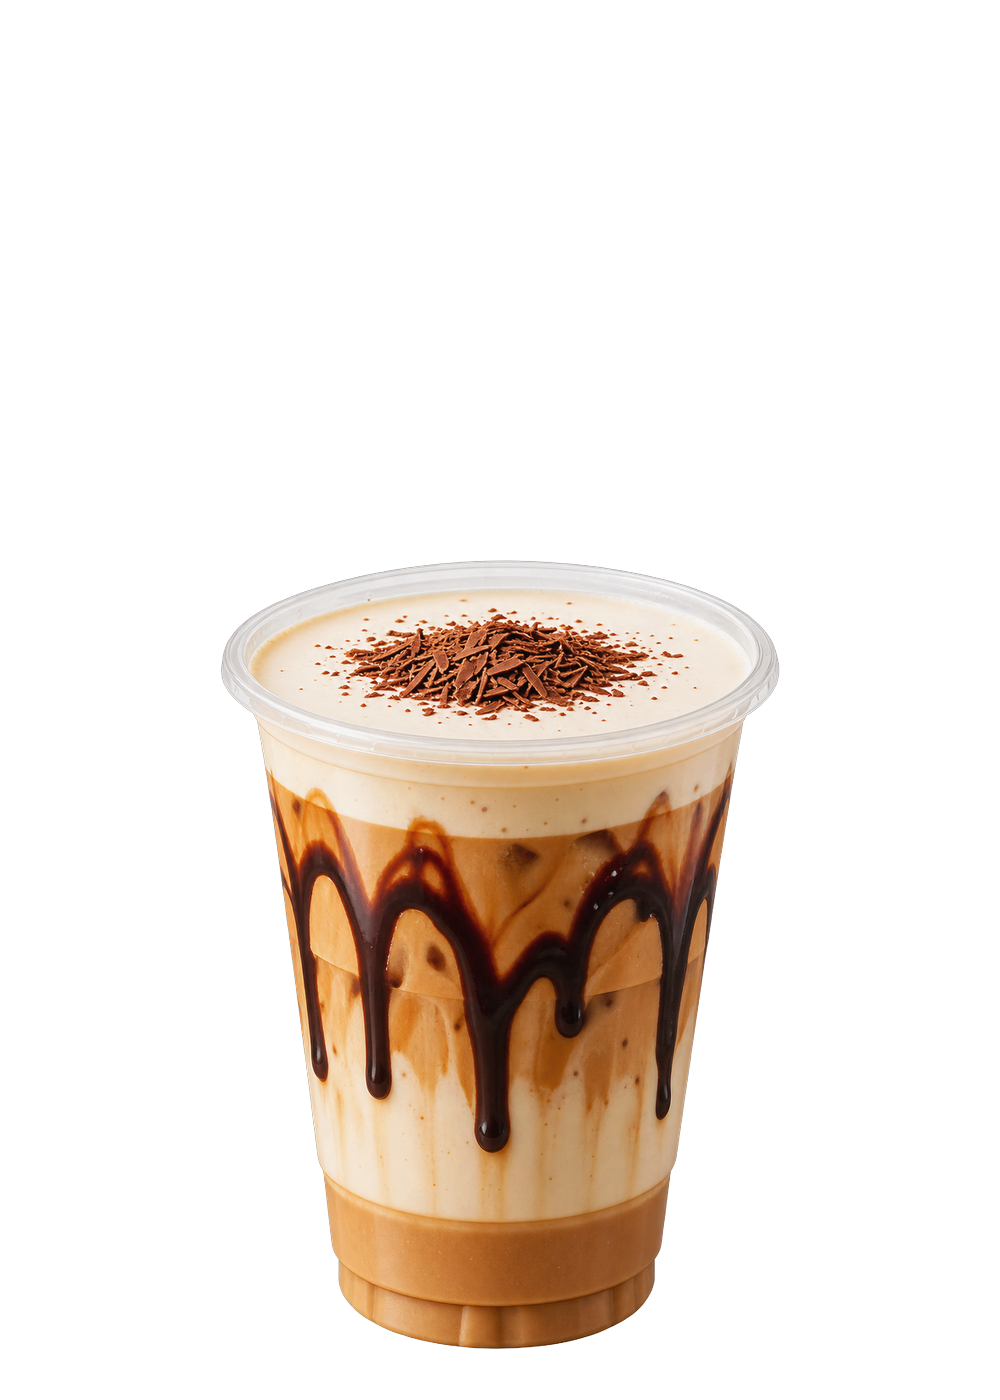
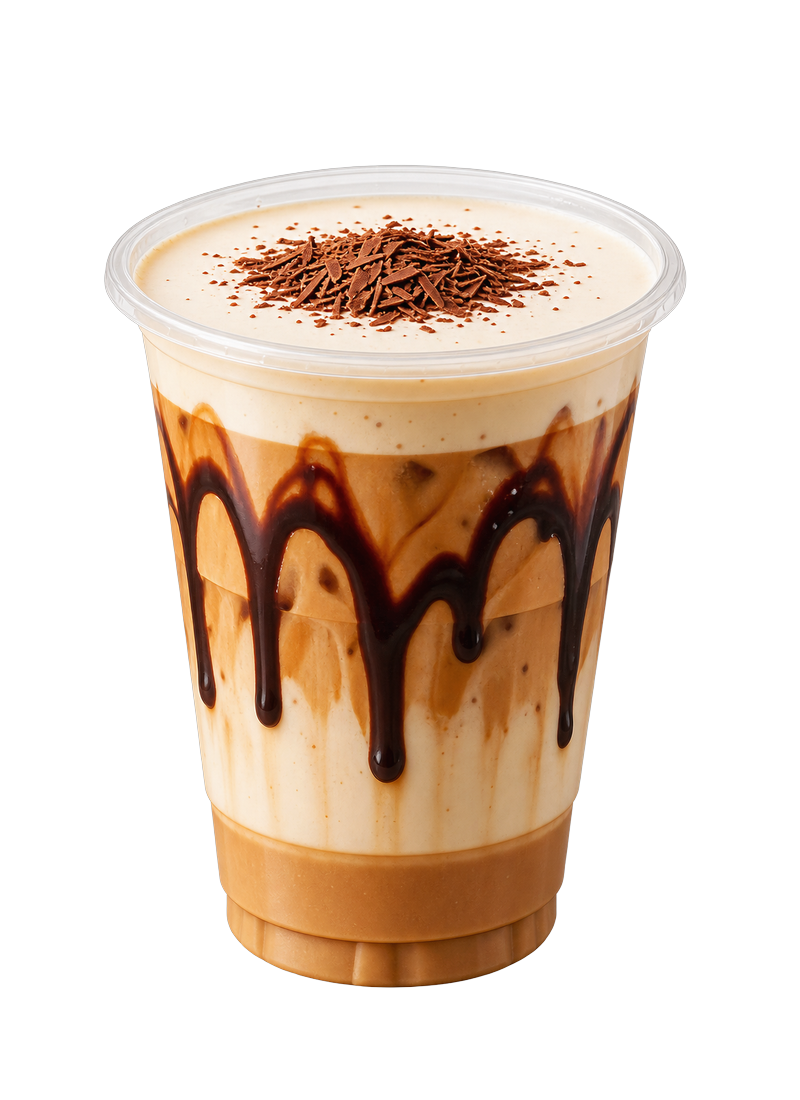
fix: regenerate high-res hero cup images with uniform canvas and perfect desktop/mobile proportions

diff --git a/src/components/HeroProductStage.tsx b/src/components/HeroProductStage.tsx
@@ -21,11 +21,11 @@ export const HERO_DRINKS = [
     title: "АЙС МОККО СПЕШЕЛТИ",
     subtitle: "Освежающий эспрессо со льдом, шоколадный ганаш и сливочная пенка",
     price: "260 ₽",
-    src: "/images/hero/ChatGPT Image 30. Aug. 2026, 21_48_52.png",
+    src: "/images/hero/hero-iced-specialty.png",
     alt: "MEDEO Iced Mocha Specialty",
     badge: "NEW COLD BREW",
     tilt: -16,
-    scaleMultiplier: 0.98,
+    scaleMultiplier: 1.0,
   },
   {
     id: "latte",
@@ -36,7 +36,7 @@ export const HERO_DRINKS = [
     alt: "MEDEO Classic Latte Art",
     badge: "100% АРАБИКА",
     tilt: -18,
-    scaleMultiplier: 0.82,
+    scaleMultiplier: 1.0,
   },
 ];
 
@@ -116,7 +116,7 @@ export default function HeroProductStage() {
                 ease: [0.4, 0, 0.2, 1],
               },
             }}
-            className="relative w-[260px] sm:w-[320px] md:w-[380px] lg:w-[460px] h-[290px] sm:h-[360px] md:h-[440px] lg:h-[540px] flex items-center justify-center cursor-pointer"
+            className="relative w-[280px] sm:w-[340px] md:w-[400px] lg:w-[460px] h-[310px] sm:h-[380px] md:h-[460px] lg:h-[550px] flex items-center justify-center cursor-pointer"
             onClick={() => setCurrentIndex((prev) => (prev + 1) % HERO_DRINKS.length)}
           >
             {/* Subtle organic hovering float while resting */}
